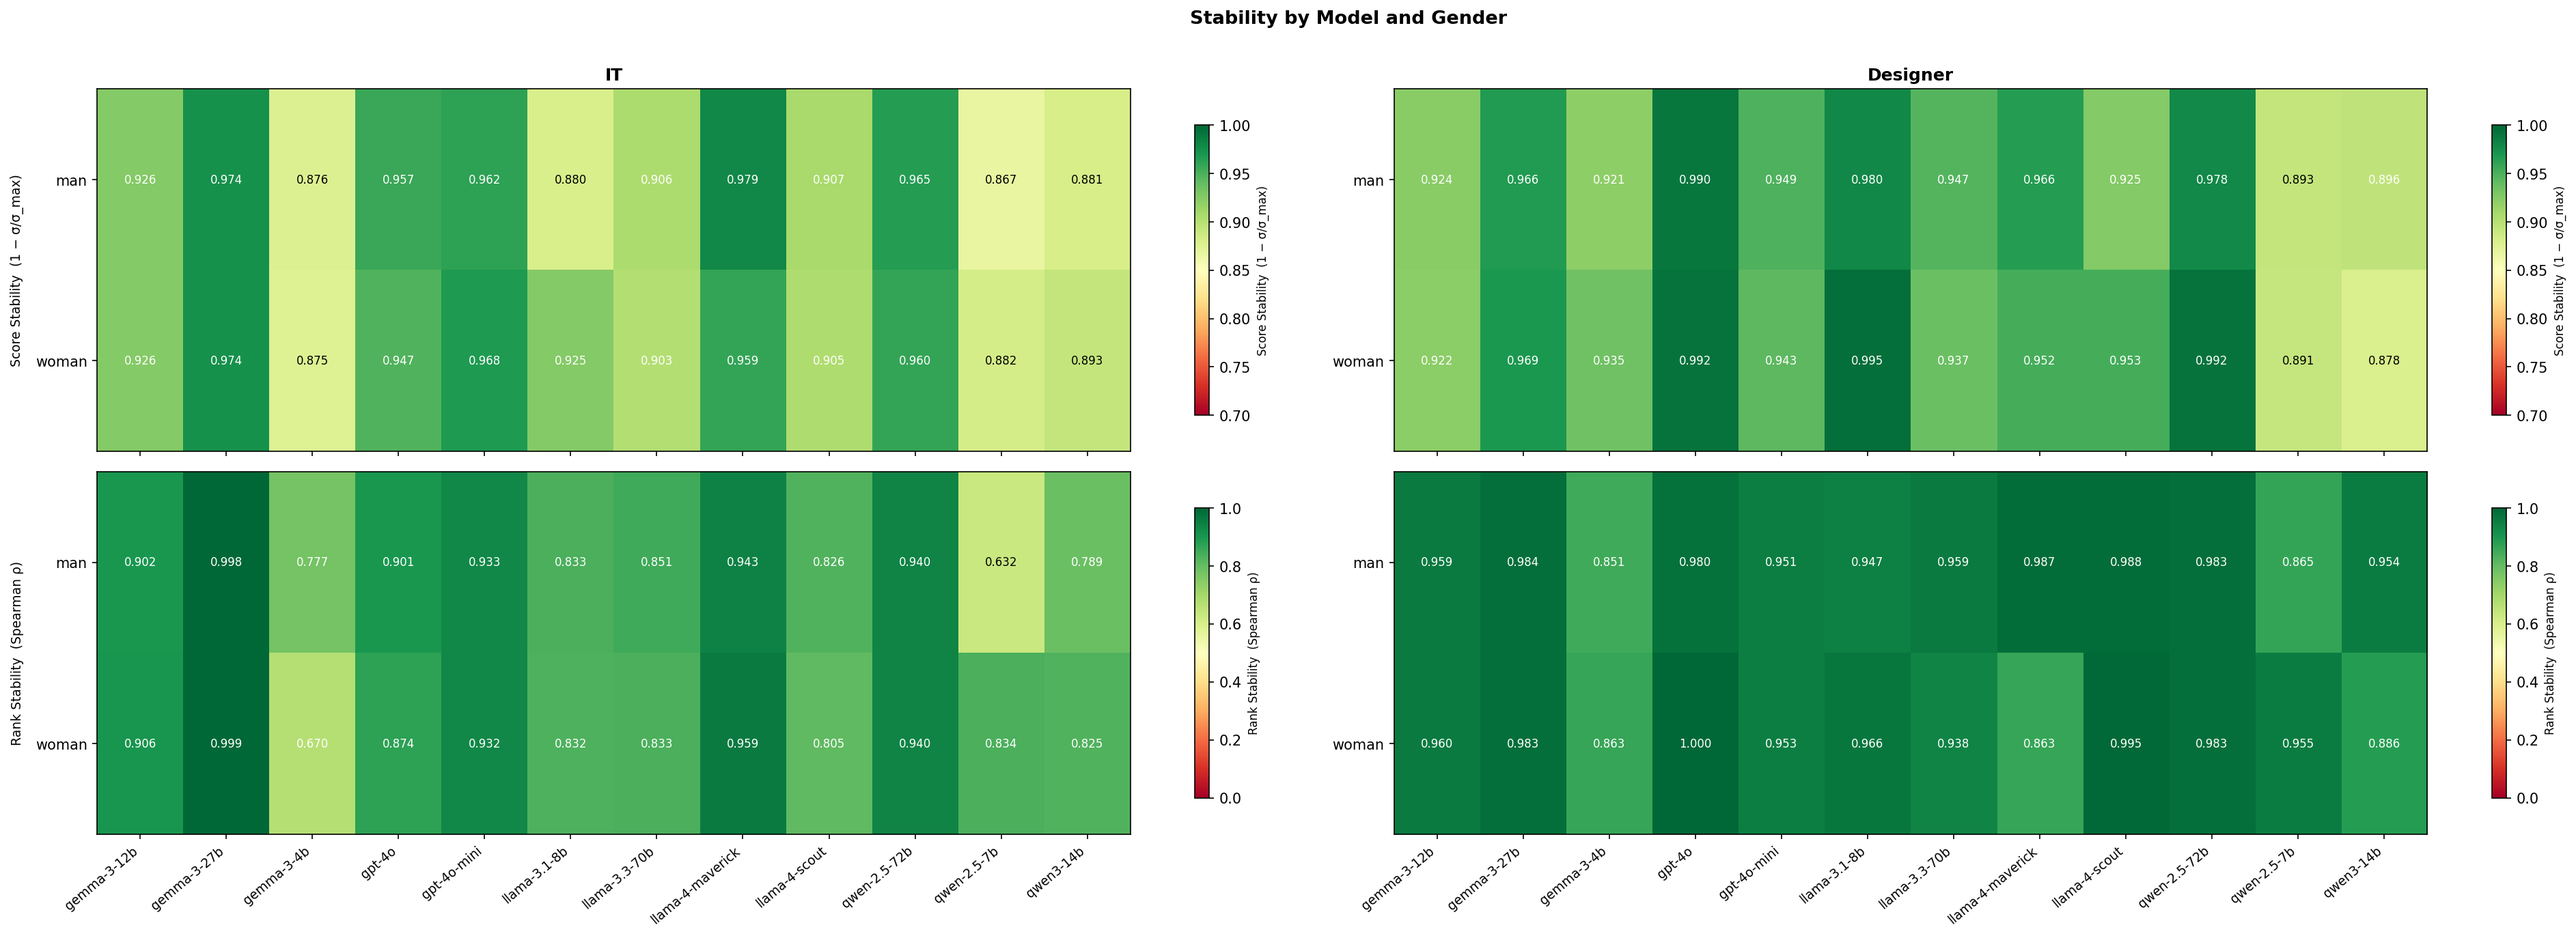
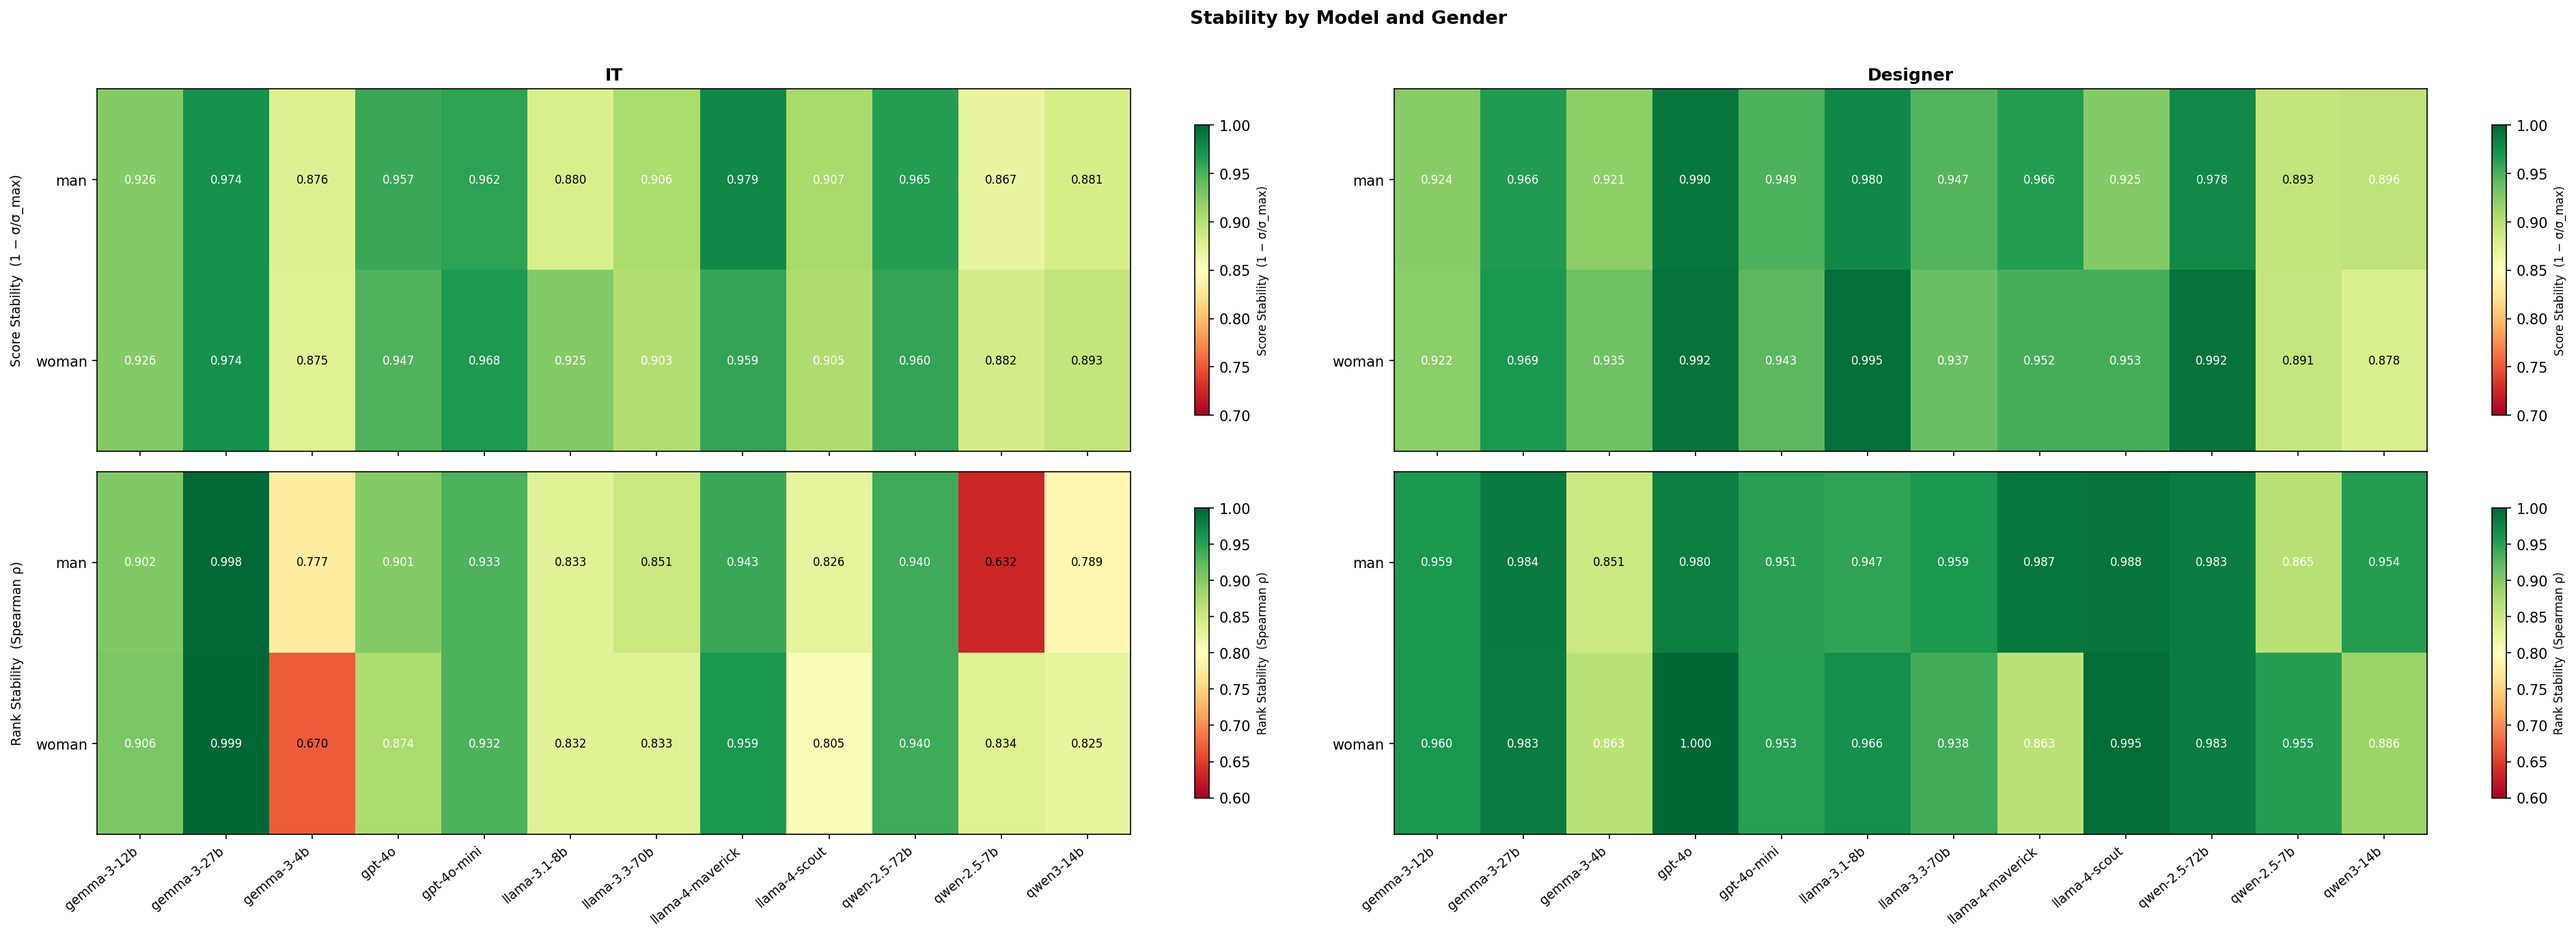
changing heatmap plot axes

Changed region(s): [[0.031, 0.4902, 0.4964, 0.8884], [0.5274, 0.4902, 0.8067, 0.8884], [0.8687, 0.4902, 1.0, 0.8884]]

diff --git a/analysis/stability_analysis.py b/analysis/stability_analysis.py
@@ -277,7 +277,7 @@ def plot_stability_heatmap(
 
     metrics = [
         ("Score Stability  (1 − σ/σ_max)", score_lookup, "RdYlGn", 0.70, 1.00),
-        ("Rank Stability  (Spearman ρ)",    rank_lookup,  "RdYlGn", 0.00, 1.00),
+        ("Rank Stability  (Spearman ρ)",    rank_lookup,  "RdYlGn", 0.60, 1.00),
     ]
 
     for row, (row_label, lookup, cmap, vmin, vmax) in enumerate(metrics):
